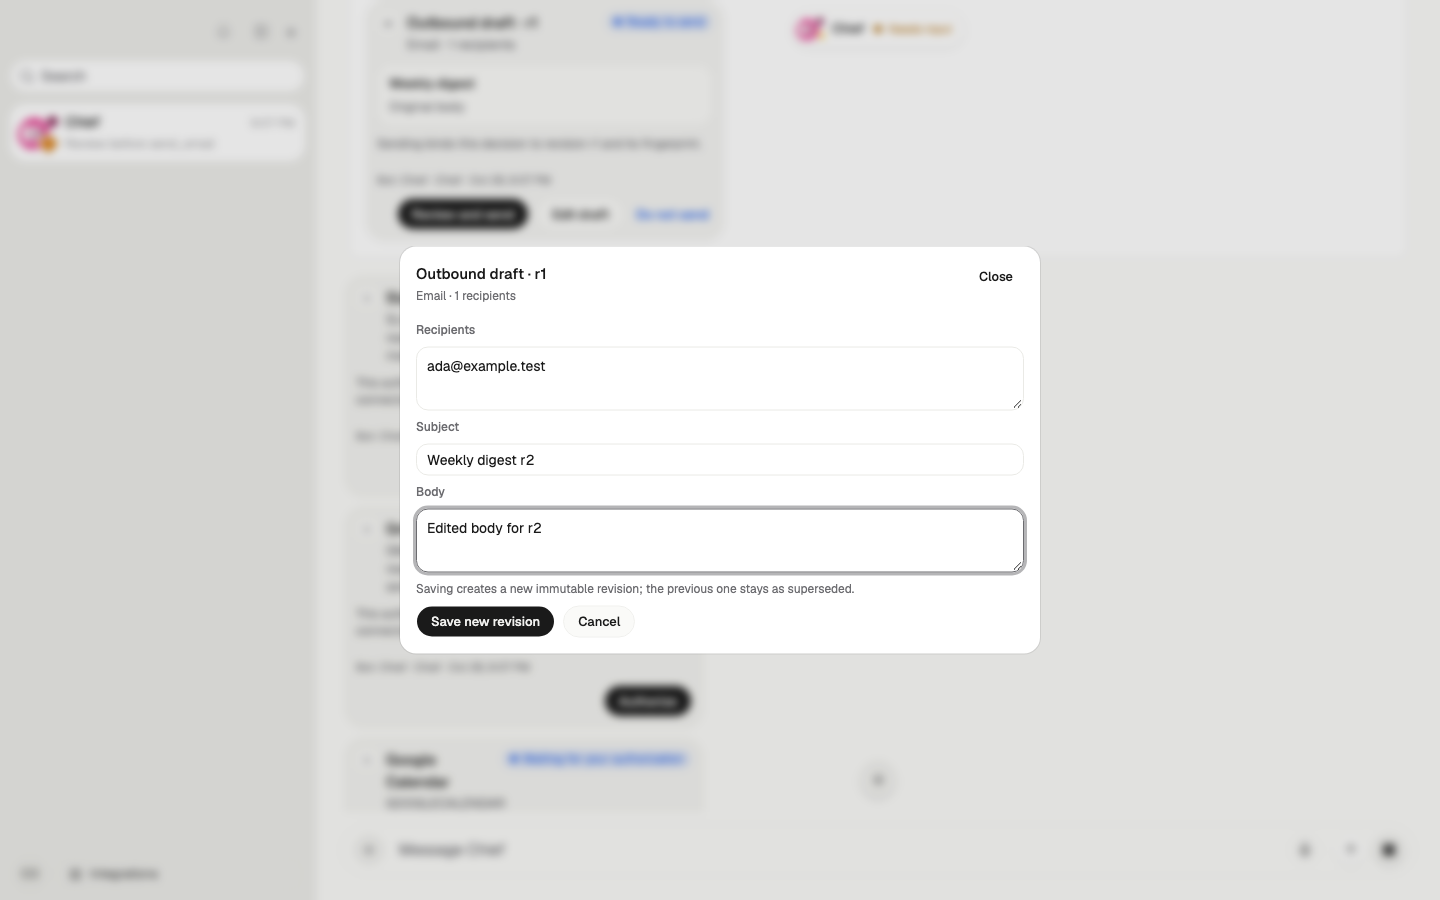
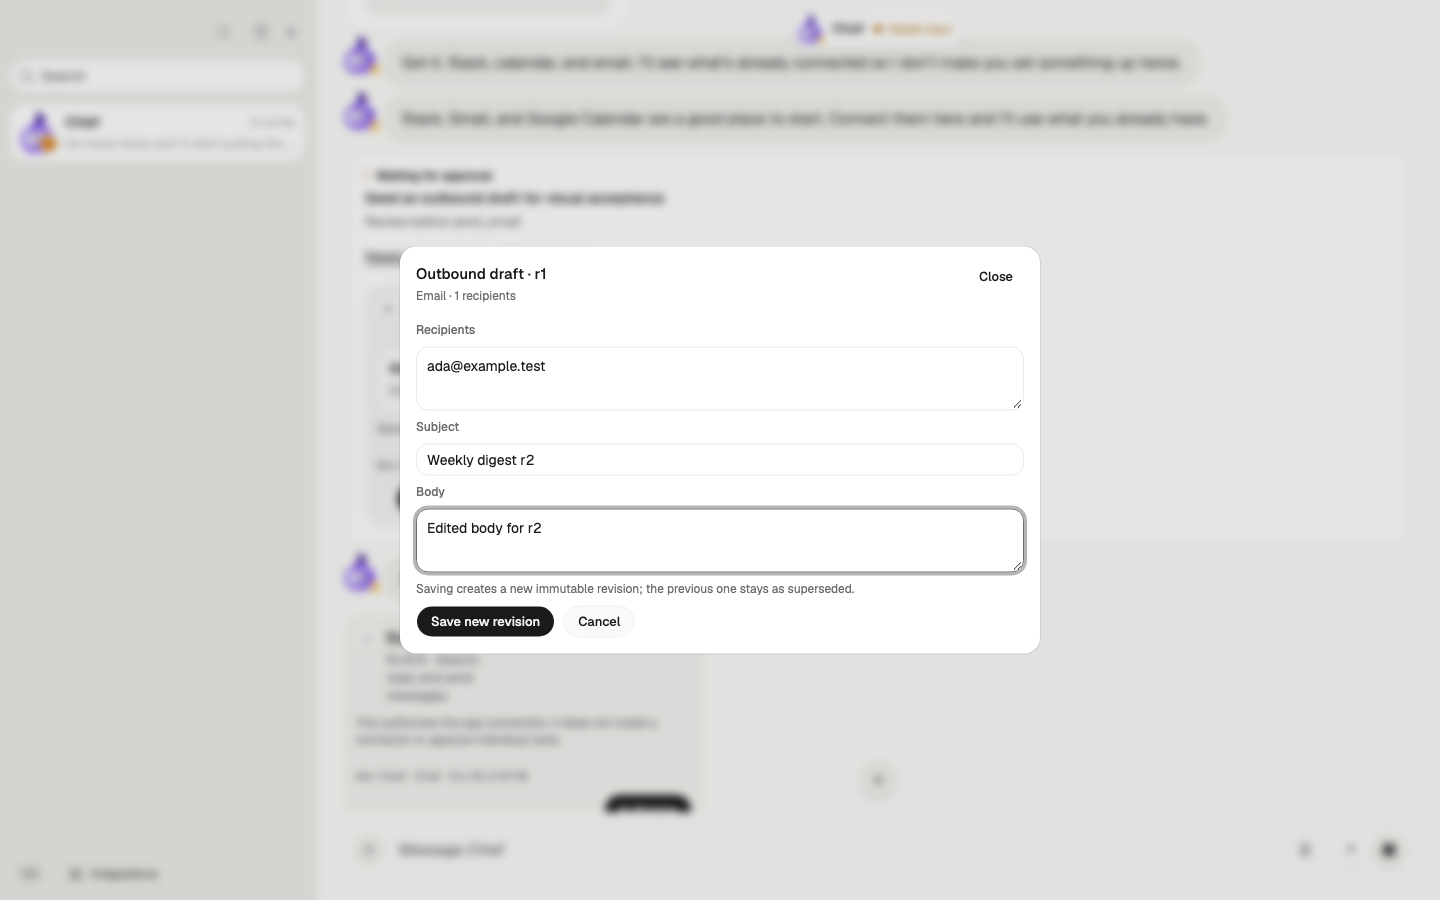
test: capture the A10 settled card at its labeled viewport

diff --git a/apps/web/e2e/card-ui-interactions.spec.ts b/apps/web/e2e/card-ui-interactions.spec.ts
@@ -195,5 +195,9 @@ test("edits and confirms an A10 outbound draft in the same card", async ({ page 
   await expect(card).toBeVisible();
   await expect(card).toContainText("r2");
   await card.scrollIntoViewIfNeeded();
+  await captureScreenshot(page, testInfo, "card-ui-outbound-r2-card-375");
+
+  await page.setViewportSize({ width: 1440, height: 900 });
+  await card.scrollIntoViewIfNeeded();
   await captureScreenshot(page, testInfo, "card-ui-outbound-r2-card-desktop");
 });

diff --git a/docs/cards/CARD-01B-visual-evidence.md b/docs/cards/CARD-01B-visual-evidence.md
@@ -30,7 +30,8 @@
 | 发送确认页（revision + fingerprint） | ![A10 confirm](./evidence/card-ui-interactions/card-ui-outbound-confirm-desktop.png) | [A10 detail](./source/card-unification-v2/mockup/cards-hifi-v4/shot-a-detail.png) |
 | 发送确认页（390） | ![A10 confirm 390](./evidence/card-ui-interactions/card-ui-outbound-confirm-390.png) | [mobile 390](./source/card-unification-v2/mockup/cards-hifi-v4/shot-mobile-390.png) |
 | 发送确认页（375） | ![A10 confirm 375](./evidence/card-ui-interactions/card-ui-outbound-confirm-375.png) | [mobile 375](./source/card-unification-v2/mockup/cards-hifi-v4/shot-mobile-375.png) |
-| 关闭确认页后仍为待处理 r2 | ![A10 r2 card](./evidence/card-ui-interactions/card-ui-outbound-r2-card-desktop.png) | [A10 cards scene](./source/card-unification-v2/mockup/cards-hifi-v4/shot-cards.png) |
+| 关闭确认页后仍为待处理 r2（桌面） | ![A10 r2 card](./evidence/card-ui-interactions/card-ui-outbound-r2-card-desktop.png) | [A10 cards scene](./source/card-unification-v2/mockup/cards-hifi-v4/shot-cards.png) |
+| 关闭确认页后仍为待处理 r2（375） | ![A10 r2 card 375](./evidence/card-ui-interactions/card-ui-outbound-r2-card-375.png) | [mobile 375](./source/card-unification-v2/mockup/cards-hifi-v4/shot-mobile-375.png) |
 
 观察结果：
 

diff --git a/docs/cards/CARD-01B-delivery.md b/docs/cards/CARD-01B-delivery.md
@@ -68,7 +68,7 @@
 | `bot-messages-pair.postgres.test.ts` | 27 tests 通过 |
 | `pnpm test:postgres` | 49/49 files、432 tests 通过（迁移后的独立 `workpal_e2e_*` 库） |
 | Scripted E2E | `card-ui-interactions.spec.ts|peer-messages.spec.ts` 5/5 通过（含 A10 同卡编辑） |
-| 视觉证据 | 19 张实际页面截图保存在 `docs/cards/evidence/card-ui-interactions/`，对照记录见 `CARD-01B-visual-evidence.md` |
+| 视觉证据 | 20 张实际页面截图保存在 `docs/cards/evidence/card-ui-interactions/`，对照记录见 `CARD-01B-visual-evidence.md` |
 | `git diff --check` | 通过 |
 | Gate-off 回归 | transcript 测试证明 gate off 时保留 legacy app/MCP/skill 卡片并忽略 `interactions` |
 | Gate-on 回归 | transcript 测试证明三张 legacy block 被抑制，新卡片位于 execution shell 且不出现双卡 |
